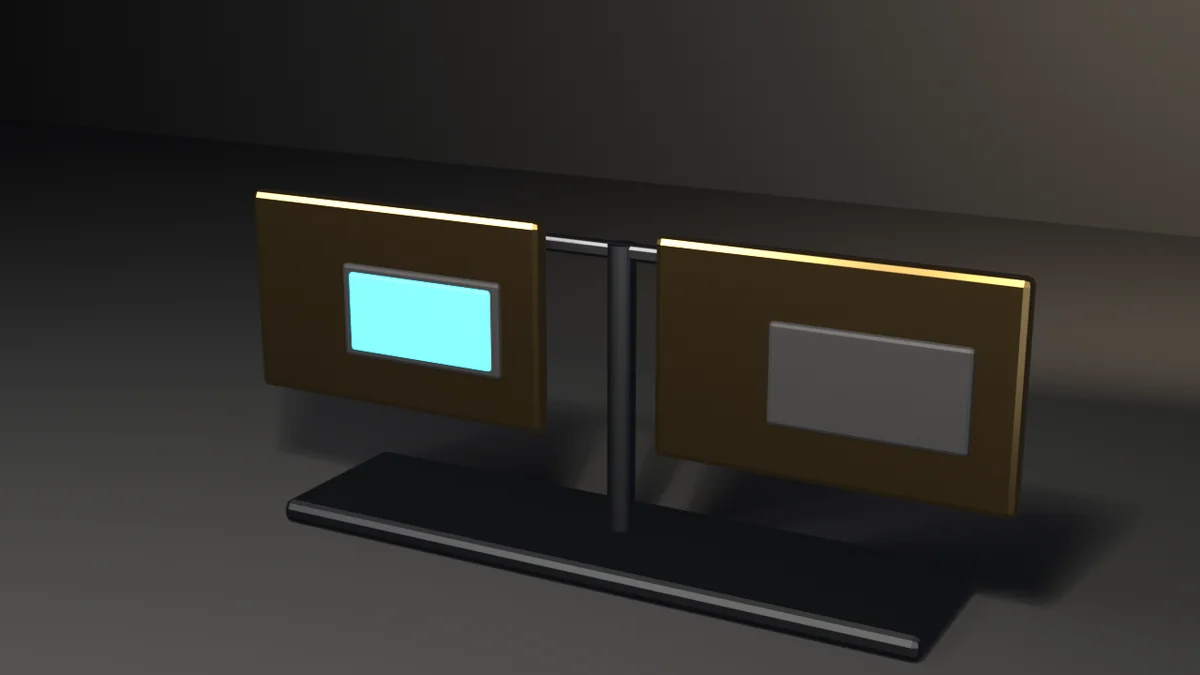
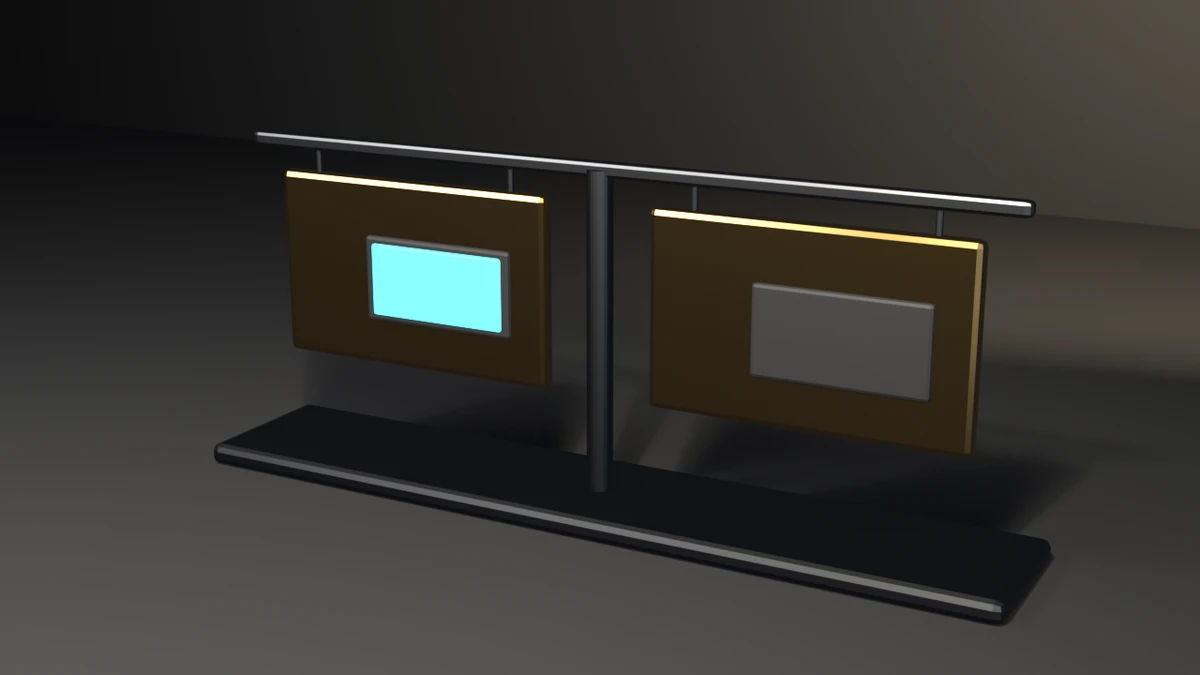
fix: cross-version-property-delete presentation, tags hang from the stand
Render path only: the tags hang from the bar on rods instead of floating in
front of it. Contract and exit codes unchanged on 4.5.11, 5.1.2 and 5.2.1.
Also regenerates the gallery index for all four items.

Changed region(s): [[0.1542, 0.1867, 0.925, 0.9956], [0.8942, 0.5289, 1.0, 0.5911]]

diff --git a/docs/gallery/cross-version-property-delete/index.html b/docs/gallery/cross-version-property-delete/index.html
@@ -16,13 +16,13 @@
   <meta property="og:image" content="https://tmhsdigital.github.io/Blender-Developer-Tools/gallery/assets/cross-version-property-delete-hero.webp" />
   <meta property="og:image:width" content="1280" />
   <meta property="og:image:height" content="720" />
-  <meta property="og:image:alt" content="Two framed display panels on a stand: the left shows a lit cyan screen, the right a blank grey one." />
+  <meta property="og:image:alt" content="Two brass tags hanging from a stand on steel rods: the left shows a lit cyan inlay, the right a blank grey pocket." />
   <meta property="og:site_name" content="Blender Developer Tools" />
   <meta name="twitter:card" content="summary_large_image" />
   <meta name="twitter:title" content="cross-version-property-delete — Examples — Blender Developer Tools" />
   <meta name="twitter:description" content="Custom ID properties are removed with del, not property_unset. The IDs are built through bpy.data.objects.new so the check does not depend on active_object." />
   <meta name="twitter:image" content="https://tmhsdigital.github.io/Blender-Developer-Tools/gallery/assets/cross-version-property-delete-hero.webp" />
-  <meta name="twitter:image:alt" content="Two framed display panels on a stand: the left shows a lit cyan screen, the right a blank grey one." />
+  <meta name="twitter:image:alt" content="Two brass tags hanging from a stand on steel rods: the left shows a lit cyan inlay, the right a blank grey pocket." />
   <style>
     /* fonts are deployed by the landing build (docs/fonts/) */
     @font-face { font-family: 'Barlow Condensed'; font-weight: 600; font-display: swap;
@@ -268,8 +268,8 @@
     <p>Custom ID properties are removed with del, not property_unset. The IDs are built through bpy.data.objects.new so the check does not depend on active_object.</p>
   </header>
   <main id="main">
-    <button class="detail-hero" id="heroZoom" type="button" aria-label="View full size: Two framed display panels on a stand: the left shows a lit cyan screen, the right a blank grey one.">
-      <img src="../assets/cross-version-property-delete-hero.webp" alt="Two framed display panels on a stand: the left shows a lit cyan screen, the right a blank grey one." width="1280" height="720" />
+    <button class="detail-hero" id="heroZoom" type="button" aria-label="View full size: Two brass tags hanging from a stand on steel rods: the left shows a lit cyan inlay, the right a blank grey pocket.">
+      <img src="../assets/cross-version-property-delete-hero.webp" alt="Two brass tags hanging from a stand on steel rods: the left shows a lit cyan inlay, the right a blank grey pocket." width="1280" height="720" />
     </button>
     <p class="zoom-hint">Rendered headless by the example itself — click to zoom.</p>
     <div class="callout"><span class="tag">witnesses</span> Factory-empty has no active_object; property_unset raises TypeError and leaves the key; del removes it (clear_has=False). --skip-delete and --unset-instead exit 7.</div>
@@ -283,6 +283,8 @@
 <p><strong>What it witnesses:</strong> <code>property_unset</code> is a TypeError on a custom ID key and does <strong>not</strong> remove it. <code>del id_block[key]</code> does. After factory-empty, there is no <code>active_object</code>.</p>
 <p><strong>What failure each check would catch:</strong></p>
 <ul><li>exit 2 — someone set an active object; the snippet <code>__main__</code> would have been the only path</li><li>exit 3 — the ID property never landed</li><li>exit 4 — <code>property_unset</code> removed the key or failed to raise</li><li>exit 7 — <code>del</code> did not run (<code>--skip-delete</code> / <code>--unset-instead</code> falsify this: measured <code>clear_has=True</code>)</li></ul>
+<h2>Staging</h2>
+<p>The two tags now hang from the stand&#x27;s bar on steel rods. The bar used to run 0.17 m behind the plates with nothing joining them, and the &quot;rings&quot; were solid discs, so the plates hung on air. The bar spans both plates, the post rises to it, and the base is as wide as what it carries. Render path only: the check reads ID properties, never geometry.</p>
 <h2>Run</h2>
 <pre><code>blender --background --python cross_version_property_delete.py --
 blender --background --python cross_version_property_delete.py -- --output tags.png</code></pre>
@@ -508,6 +510,31 @@ VALUE = <span class="n">42</span>
     <span class="k">for</span> ob <span class="k">in</span> stand:
         assign(ob, steel)
 
+    <span class="c"># Render-only staging: the check reads ID properties, never geometry.</span>
+    <span class="c"># The build left the bar 0.17 m behind the plates with nothing joining</span>
+    <span class="c"># them, and the &quot;rings&quot; are solid discs, so the plates hung on air.</span>
+    <span class="c"># Here the bar runs in the plates&#x27; plane above their tops, spans both,</span>
+    <span class="c"># and each plate hangs from it on two rods; the post rises to the bar</span>
+    <span class="c"># and the base is as wide as what it carries.</span>
+    post, base, bar = stand
+    plate_top = keep_plate.location.z + <span class="n">0.525</span>
+    bar_z = plate_top + <span class="n">0.16</span>
+    bar.location = (<span class="n">0.0</span>, <span class="n">0.0</span>, bar_z)
+    bar.scale.x = <span class="n">4.4</span> / <span class="n">2.6</span>
+    post.location = (<span class="n">0.0</span>, <span class="n">0.0</span>, <span class="n">0.5</span> * bar_z)
+    post.scale.z = bar_z / <span class="n">1.55</span>
+    base.location = (<span class="n">0.0</span>, <span class="n">0.0</span>, <span class="n">0.06</span>)
+    base.scale.x = <span class="n">4.6</span> / <span class="n">3.4</span>
+    hangers = []
+    <span class="k">for</span> plate <span class="k">in</span> (keep_plate, clear_plate):
+        <span class="k">for</span> dx <span class="k">in</span> (-<span class="n">0.62</span>, <span class="n">0.62</span>):
+            rod = cylinder(<span class="s">f&quot;</span><span class="s">Hanger</span>{len(hangers)}<span class="s">&quot;</span>, <span class="n">0.018</span>, bar_z - plate_top + <span class="n">0.05</span>,
+                           (plate.location.x + dx, <span class="n">0.0</span>, <span class="n">0.5</span> * (plate_top - <span class="n">0.03</span> + bar_z)), segs=<span class="n">12</span>)
+            assign(rod, steel)
+            hangers.append(rod)
+    <span class="k">for</span> ring <span class="k">in</span> (keep_ring, clear_ring):
+        ring.hide_render = <span class="k">True</span>
+
     inlay = <span class="k">None</span>
     <span class="k">if</span> KEY <span class="k">in</span> keep_plate.keys():
         inlay = add_inlay(<span class="s">&quot;Keep&quot;</span>, keep_plate)
@@ -554,13 +581,13 @@ VALUE = <span class="n">42</span>
     light(<span class="s">&quot;Glint&quot;</span>, (<span class="n">1.6</span>, -<span class="n">5.0</span>, <span class="n">6.0</span>), <span class="n">850.0</span>, <span class="n">0.9</span>, (<span class="n">1.0</span>, <span class="n">0.9</span>, <span class="n">0.7</span>), (<span class="n">40</span>, <span class="n">0</span>, <span class="n">18</span>))
 
     aim = bpy.data.objects.new(<span class="s">&quot;Aim&quot;</span>, <span class="k">None</span>)
-    aim.location = (<span class="n">0.0</span>, <span class="n">0.0</span>, <span class="n">1.15</span>)
+    aim.location = (<span class="n">0.0</span>, <span class="n">0.0</span>, <span class="n">0.95</span>)
     aim.hide_render = <span class="k">True</span>
     scene.collection.objects.link(aim)
     cam_data = bpy.data.cameras.new(<span class="s">&quot;Cam&quot;</span>)
     cam_data.lens = <span class="n">50.0</span>
     cam = bpy.data.objects.new(<span class="s">&quot;Cam&quot;</span>, cam_data)
-    cam.location = (<span class="n">3.55</span>, -<span class="n">6.59</span>, <span class="n">3.30</span>)
+    cam.location = (<span class="n">3.95</span>, -<span class="n">7.35</span>, <span class="n">3.3</span>)
     scene.collection.objects.link(cam)
     scene.camera = cam
     track = cam.constraints.new(<span class="s">&quot;TRACK_TO&quot;</span>)
@@ -582,7 +609,7 @@ VALUE = <span class="n">42</span>
     scene.render.filepath = path
     scene.view_settings.view_transform = <span class="s">&quot;Standard&quot;</span>
 
-    hero = [keep_plate, clear_plate, keep_ring, clear_ring] + list(stand)
+    hero = [keep_plate, clear_plate] + list(stand) + hangers
     <span class="k">if</span> inlay <span class="k">is</span> <span class="k">not</span> <span class="k">None</span>:
         hero.append(inlay)
     fcode = gallery_framing.check_framing(
@@ -646,7 +673,7 @@ VALUE = <span class="n">42</span>
   </main>
   <dialog class="lightbox" id="lightbox" aria-label="Full-size render">
     <button class="lightbox-close" type="button" autofocus>Close</button>
-    <img src="../assets/cross-version-property-delete-hero.webp" alt="Two framed display panels on a stand: the left shows a lit cyan screen, the right a blank grey one." />
+    <img src="../assets/cross-version-property-delete-hero.webp" alt="Two brass tags hanging from a stand on steel rods: the left shows a lit cyan inlay, the right a blank grey pocket." />
   </dialog>
   <footer>
     <div class="statusbar">

diff --git a/docs/gallery/index.html b/docs/gallery/index.html
@@ -552,7 +552,7 @@
       </article>
       <article class="card" data-tags="curves depsgraph rendering">
         <a class="card-media" href="text-version-stamp/" tabindex="-1" aria-hidden="true">
-          <img src="assets/text-version-stamp-hero.webp" alt="The word BLENDER above the Blender version number in large gold 3D characters." loading="lazy" decoding="async" />
+          <img src="assets/text-version-stamp-hero.webp" alt="The Blender version number in large gold 3D characters standing on a dark plinth, the word BLENDER set into its face." loading="lazy" decoding="async" />
         </a>
         <div class="card-body">
           <h2><a href="text-version-stamp/">text-version-stamp</a></h2>
@@ -849,7 +849,7 @@
       </article>
       <article class="card" data-tags="context properties">
         <a class="card-media" href="cross-version-property-delete/" tabindex="-1" aria-hidden="true">
-          <img src="assets/cross-version-property-delete-hero.webp" alt="Two framed display panels on a stand: the left shows a lit cyan screen, the right a blank grey one." loading="lazy" decoding="async" />
+          <img src="assets/cross-version-property-delete-hero.webp" alt="Two brass tags hanging from a stand on steel rods: the left shows a lit cyan inlay, the right a blank grey pocket." loading="lazy" decoding="async" />
         </a>
         <div class="card-body">
           <h2><a href="cross-version-property-delete/">cross-version-property-delete</a></h2>
@@ -1047,12 +1047,12 @@
       </article>
       <article class="card" data-tags="mesh export showcase">
         <a class="card-media" href="anvil/" tabindex="-1" aria-hidden="true">
-          <img src="assets/anvil-hero.webp" alt="A black iron anvil mounted on a hooped timber stump." loading="lazy" decoding="async" />
+          <img src="assets/anvil-hero.webp" alt="A dark forged-steel anvil with a flared, squared waist, mounted on a hooped timber stump." loading="lazy" decoding="async" />
         </a>
         <div class="card-body">
           <h2><a href="anvil/">anvil</a></h2>
           <p class="teaches">A procedural blacksmith anvil on a timber stump through UVs, bake, LOD, collider, and Unity glTF, asserting recomputed budgets rather than an API contract.</p>
-          <p class="witnesses"><span class="tag">witnesses</span> Recomputed: 2988 tris, two materials with 1040 wood and 822 metal faces, UVs in 0..1 with zero AABB overlap, outer AABB 0.621×0.414×0.489 m, LOD ratios in band, convex collider 134 tris, hygiene 0, 16 grounded staves, hoop bite 0.003 m, foot-on-head gap 0.003 m, non-empty glTF. --skip-decimate exits 9; --stray-vert 15; --lift-z/--short-staves 16; --float-anvil 17; --round-band 18.</p>
+          <p class="witnesses"><span class="tag">witnesses</span> Recomputed: 3052 tris, two materials with 1040 wood and 854 metal faces, UVs in 0..1 with zero AABB overlap, outer AABB 0.621×0.414×0.489 m, LOD ratios in band, convex collider 134 tris, hygiene 0, 16 grounded staves, hoop bite 0.003 m, foot-on-head gap 0.003 m, waist corner reach 0.8572, non-empty glTF. --skip-decimate exits 9; --stray-vert 15; --lift-z/--short-staves 16; --float-anvil 17; --round-band 18; --round-waist 19.</p>
           <a class="card-link" href="anvil/">View showcase piece<span class="sr-only"> anvil</span> <span aria-hidden="true">&rarr;</span></a>
         </div>
       </article>
@@ -1102,7 +1102,7 @@
       </article>
       <article class="card" data-tags="mesh export showcase">
         <a class="card-media" href="signpost/" tabindex="-1" aria-hidden="true">
-          <img src="assets/signpost-hero.webp" alt="A wooden signpost with two pointed finger boards and dark iron bands on the post." loading="lazy" decoding="async" />
+          <img src="assets/signpost-hero.webp" alt="A wooden signpost with two pointed finger boards in worn cream paint and rusted iron bands on the post." loading="lazy" decoding="async" />
         </a>
         <div class="card-body">
           <h2><a href="signpost/">signpost</a></h2>

diff --git a/examples/cross-version-property-delete/cross_version_property_delete.py b/examples/cross-version-property-delete/cross_version_property_delete.py
@@ -207,6 +207,31 @@ def render_still(keep_parts, clear_parts, stand, path, engine):
     for ob in stand:
         assign(ob, steel)
 
+    # Render-only staging: the check reads ID properties, never geometry.
+    # The build left the bar 0.17 m behind the plates with nothing joining
+    # them, and the "rings" are solid discs, so the plates hung on air.
+    # Here the bar runs in the plates' plane above their tops, spans both,
+    # and each plate hangs from it on two rods; the post rises to the bar
+    # and the base is as wide as what it carries.
+    post, base, bar = stand
+    plate_top = keep_plate.location.z + 0.525
+    bar_z = plate_top + 0.16
+    bar.location = (0.0, 0.0, bar_z)
+    bar.scale.x = 4.4 / 2.6
+    post.location = (0.0, 0.0, 0.5 * bar_z)
+    post.scale.z = bar_z / 1.55
+    base.location = (0.0, 0.0, 0.06)
+    base.scale.x = 4.6 / 3.4
+    hangers = []
+    for plate in (keep_plate, clear_plate):
+        for dx in (-0.62, 0.62):
+            rod = cylinder(f"Hanger{len(hangers)}", 0.018, bar_z - plate_top + 0.05,
+                           (plate.location.x + dx, 0.0, 0.5 * (plate_top - 0.03 + bar_z)), segs=12)
+            assign(rod, steel)
+            hangers.append(rod)
+    for ring in (keep_ring, clear_ring):
+        ring.hide_render = True
+
     inlay = None
     if KEY in keep_plate.keys():
         inlay = add_inlay("Keep", keep_plate)
@@ -253,13 +278,13 @@ def render_still(keep_parts, clear_parts, stand, path, engine):
     light("Glint", (1.6, -5.0, 6.0), 850.0, 0.9, (1.0, 0.9, 0.7), (40, 0, 18))
 
     aim = bpy.data.objects.new("Aim", None)
-    aim.location = (0.0, 0.0, 1.15)
+    aim.location = (0.0, 0.0, 0.95)
     aim.hide_render = True
     scene.collection.objects.link(aim)
     cam_data = bpy.data.cameras.new("Cam")
     cam_data.lens = 50.0
     cam = bpy.data.objects.new("Cam", cam_data)
-    cam.location = (3.55, -6.59, 3.30)
+    cam.location = (3.95, -7.35, 3.3)
     scene.collection.objects.link(cam)
     scene.camera = cam
     track = cam.constraints.new("TRACK_TO")
@@ -281,7 +306,7 @@ def render_still(keep_parts, clear_parts, stand, path, engine):
     scene.render.filepath = path
     scene.view_settings.view_transform = "Standard"
 
-    hero = [keep_plate, clear_plate, keep_ring, clear_ring] + list(stand)
+    hero = [keep_plate, clear_plate] + list(stand) + hangers
     if inlay is not None:
         hero.append(inlay)
     fcode = gallery_framing.check_framing(

diff --git a/README.md b/README.md
@@ -744,7 +744,7 @@ sources are gone, and local Z spans all three steps.
 </tr>
 <tr>
 <td width="46%" valign="middle">
-<a href="examples/cross-version-property-delete/"><img src="examples/cross-version-property-delete/preview.webp" alt="Cross-version property delete: two brass specimen tags on a dark studio stand — left tag with a cyan emissive enamel inlay (ID property kept), right tag with an empty grey pocket (ID property deleted)" /></a>
+<a href="examples/cross-version-property-delete/"><img src="examples/cross-version-property-delete/preview.webp" alt="Cross-version property delete: two brass specimen tags hanging on rods from a dark studio stand — left tag with a cyan emissive enamel inlay (ID property kept), right tag with an empty grey pocket (ID property deleted)" /></a>
 </td>
 <td valign="middle">
 

diff --git a/examples/cross-version-property-delete/README.md b/examples/cross-version-property-delete/README.md
@@ -24,6 +24,15 @@ no `active_object`.
 - exit 7 — `del` did not run (`--skip-delete` / `--unset-instead` falsify
   this: measured `clear_has=True`)
 
+## Staging
+
+The two tags now hang from the stand's bar on steel rods. The bar used
+to run 0.17 m behind the plates with nothing joining them, and the
+"rings" were solid discs, so the plates hung on air. The bar spans both
+plates, the post rises to it, and the base is as wide as what it
+carries. Render path only: the check reads ID properties, never
+geometry.
+
 ## Run
 
 ```bash
